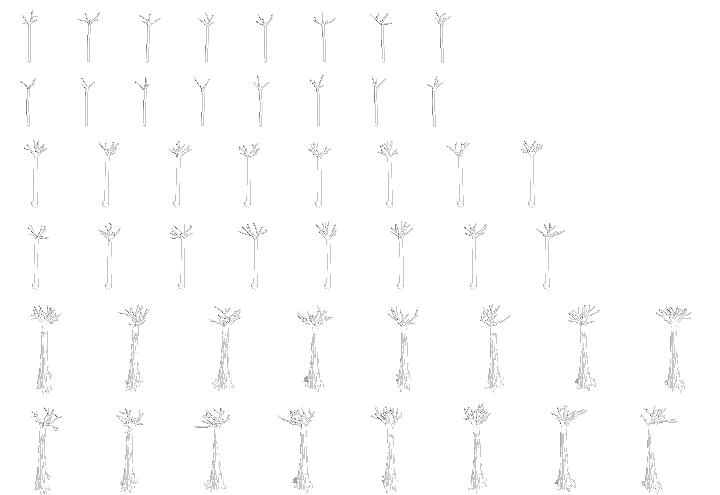
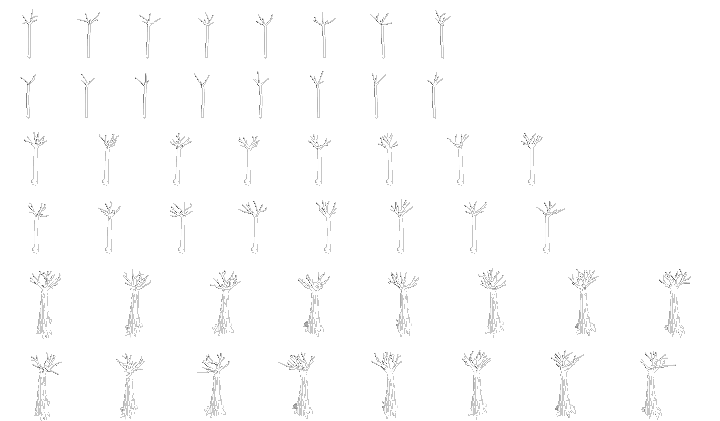
Trees drawn as pictures: crowns lowered, autumn from the crown's edge, version-based regrow
The crowns of the 14 broadleaf species sit ~20% of the tree's height lower (less where
the trunk under the crown is short), the frames carry each leaf bundle's rank from the
crown's edge (autumn hides them edge first; under half the leaves the bark comes from the
bare frames) and the maples' leaf outline half a step darker as approved. The looks' trunks
are capped so a flat crown's points still reach over them (standing_look).

An old save's trees grow again by the save's trees' looks (TreeLooks `since`), not by
standing_look, which took old trees with a trunk as high as a look's for pictured ones.

ChunkMesher.reach: a column that lost its last leaf or got its first reaches
Grass.WOODS_EDGE, so a crown felled beside a chunk takes the ferns of the woods round it.

Claude-Session: https://claude.ai/code/session_01RowsXurCh1S6AG4jrv45i4

diff --git a/docs/systems/chunks.md b/docs/systems/chunks.md
@@ -65,7 +65,9 @@ slice, to free the far meshes.
   the player leaves; the chunks within `REFILL_CHUNKS` (1) that have none — built while the player was far —
   are rebuilt in idle, `keep_queue`, within the stream's budget and yielding to edits); an edit in such a
   chunk builds only the columns around the changed cells (`dirty_rects`; by how much around —
-  `ChunkMesher.reach`: 3 at the ground, 1 for cells in the air, of a crown and a trunk above the ground) and
+  `ChunkMesher.reach`: 3 at the ground, 1 for cells in the air, of a crown and a trunk above the ground, but
+  `Grass.WOODS_EDGE` where a column lost its last leaf or got its first: the plants of the woods follow the crowns,
+  also in the chunk beside) and
   glues them into the saved (`ChunkMesher.patch`, then a step later `Foliage.patch` — the plants also build
   the trunks of trees whose crown can reach the plot, `Foliage.part_columns`), the shadows of the chunk's
   trees are counted anew; `remesh_chunk` builds the chunk whole. The result equals a full rebuild buffer to
@@ -101,7 +103,9 @@ slice, to free the far meshes.
   plant parts), the frame of the side the camera rests at plus the tree's own turn, from one atlas of all
   such species (`setup` at the start; frames RGBA8 hold the leaf's normal, angle and bits or the bark's
   step under 8 suns of the day, the bare tree LA8 for autumn and winter); lit by the sun in the shader as the
-  approved drawing (bundles by normal, leaves by facing). Foliage and the trunk mesher leave such trees out;
+  approved drawing (bundles by normal, leaves by facing). Autumn takes the leaf bundles from the crown's edge
+  inward (each bundle's rank from the edge is in its frame); under half of them left, the bark is drawn from the
+  bare tree, without the crown's shade. Foliage and the trunk mesher leave such trees out;
   young trees and stumps stay theirs.
 - `src/client/world/edge_haze.gd`, `shaders/edge_fog.gdshader` — the fog above unbuilt chunks (see above).
 - `src/client/world/mesh_buffers.gd` — growing vertex buffers; `drifts.gd` — snowdrifts; `tracks.gd` —

diff --git a/docs/systems/world-generation.md b/docs/systems/world-generation.md
@@ -110,9 +110,10 @@ on it or walks into it and throws it back (`Character._touch_hot`), and a thing 
   crown points where the look's crown cells are (`_offsets`, kept in the look; a crown too small for the lattice
   gets one point over the trunk). `standing_look` tells a standing tree from a young one (its sapling's record)
   and from a stump by the trunk's height and the leaves over its top round the crown points nearest the trunk
-  (`_probes`): a stump cut as high as a smaller look's trunk lost them to Felling. A saved chunk packed before (`WorldCells.TREE_LOOKS`, «looks» in `pack_chunk`) grows
-  its old trees of such species again as their looks in its last restore steps (`Growth.outgrown` / `regrow`,
-  `WorldGen.Job.regrow`); stumps and young trees stay.
+  (`_probes`): a stump cut as high as a smaller look's trunk lost them to Felling. A saved chunk packed at earlier trees' looks (`WorldCells.TREE_LOOKS`, «looks» in
+  `pack_chunk`) grows its old trees of the species drawn as pictures since (TreeLooks `since`, 1 unless look.yaml
+  says) again as their looks in its last restore steps (`Growth.outgrown` / `regrow`, `WorldGen.Job.regrow`); stumps
+  and young trees stay. Not by `standing_look`: an old tree's trunk may be as high as a look's, its crown over it.
 - `src/shared/world/test_ground.gd` — the test world, two of them (the world setting `slopes` 0 and 1, folders `test` and `test-o1`), listed last on «Load a world» in the developer mode (`WorldList.test_worlds`): sites of relief,
   biomes, plants (a garden — pens of trees of 15 cells, east of it fields of ears), «Camp», «Star cave»
   (`TestGround.STAR_*`), a two-storey brick «House» (`HOUSE_*`: walls and floors — cells from `extras`, the
